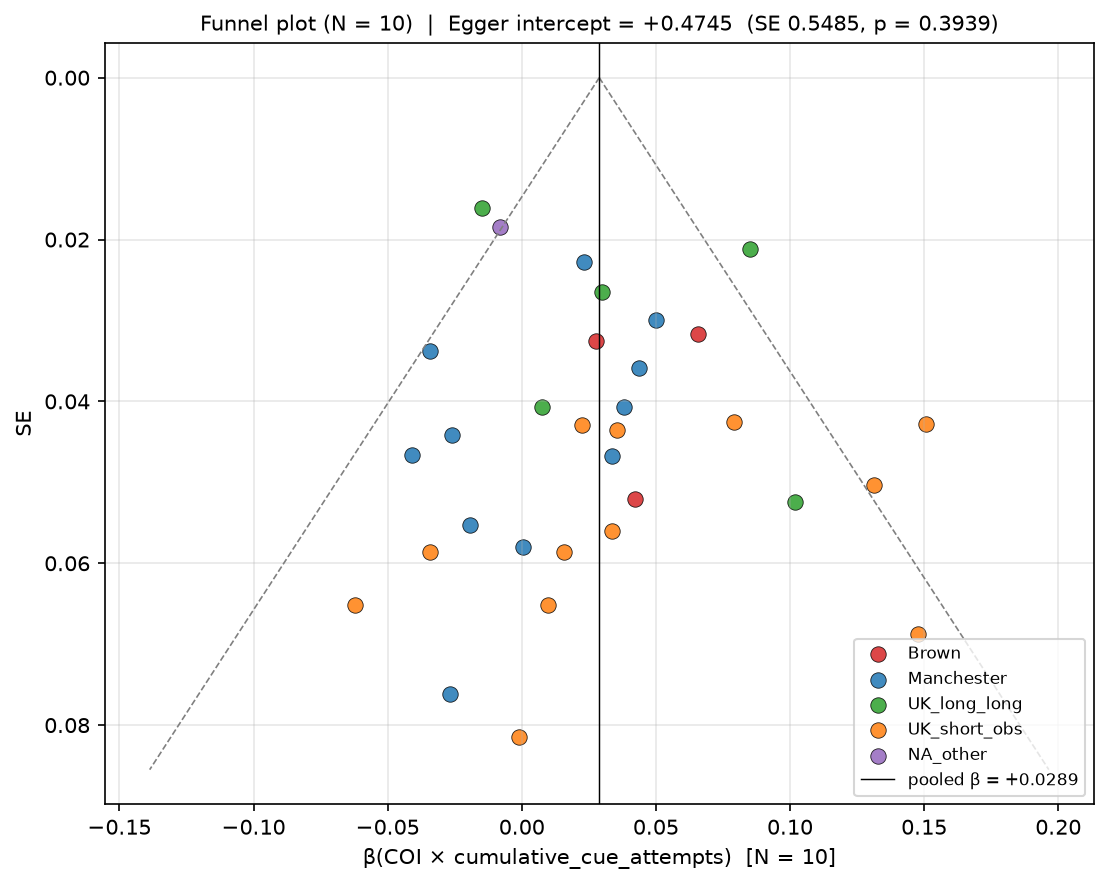
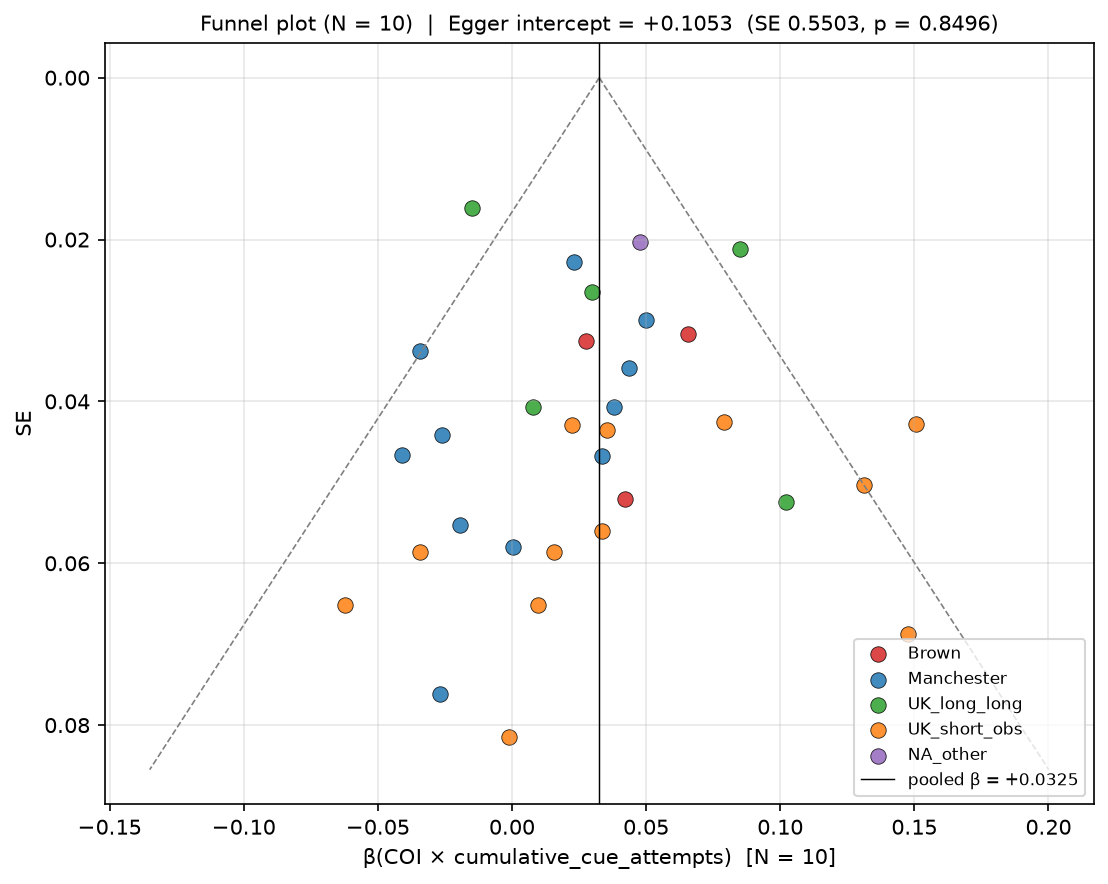
Paper 2: SPEC #21 — fix 17l April N=10 stale value bug
17l_paper_figures.py previously loaded April's per-child β from
output/v17j/na_pool_per_child_betas_loose.csv, which stored only the
N=5 fit (β = -0.0083, p = 0.65). When 17l built the N=10 forest panel
and N=10 drop-Manchester meta, it reused April's N=5 β instead of
refitting at the actual outcome window. This pulled the N=10 pooled
β downward and disagreed with 17m / 17n / 19 (the three independent
scripts that recompute April at each window).

Patch: port `refit_april_at_window()` from 17m_window_range_sensitivity.py
into 17l as `_refit_april_at_window()` and call it from
`load_per_child_table(window)`. April now contributes:
  N=5  β = -0.0083  SE = 0.0184  p = 0.6520   (unchanged)
  N=10 β = +0.0477  SE = 0.0203  p = 0.0187   (corrected)

Effect on the 32-child pooled meta (output/v17l/drop_manchester_meta.json):
              before              after                 source-of-truth
  N=10 FULL   +0.0289 / I² 39.7%  +0.0325 / I² 36.1%    17m +0.0325
  N=10 DROP   +0.0399 / I² 52.6%  +0.0446 / I² 46.6%    17m +0.0446
  N=10 Egger  FULL +0.475 p=0.394  FULL +0.105 p=0.850   17m +0.105
  N=10 Egger  DROP +1.022 p=0.149  DROP +0.609 p=0.380   17m +0.609

The corrected N=10 values match 17m / 17n / 19 exactly. All p < 0.001
and all Egger p > 0.10 (no publication bias); the conclusions are
unchanged but the SI numbers and the Figure 1 N=10 diamond are now
authoritative.

N=5 was unaffected (17l already loaded April N=5 correctly):
[…]

diff --git a/17l_paper_figures.py b/17l_paper_figures.py
@@ -143,6 +143,135 @@ def _norm_subcorpus(s: str) -> str:
     return s
 
 
+# ─────────────────────────────────────────────────────────────────────────────
+# April (NA single child) per-window refit (ported from 17m so 17l no longer
+# imports a stale N=5-only β for the N=10 panel)
+# ─────────────────────────────────────────────────────────────────────────────
+
+import bisect as _bisect_april
+
+
+def _z_local(s: pd.Series) -> pd.Series:
+    s = pd.to_numeric(s, errors="coerce")
+    sd = s.std()
+    if sd is None or pd.isna(sd) or sd == 0:
+        return s - s.mean()
+    return (s - s.mean()) / sd
+
+
+def _build_child_utt_index(tagged_csv: Path) -> Dict[str, Tuple[np.ndarray, List[set]]]:
+    cols = ["file", "speaker_role", "utterance_index", "cue_subtype", "is_cue_token"]
+    df = pd.read_csv(tagged_csv, usecols=cols, low_memory=False, dtype={"file": str})
+    df = df[df["speaker_role"] == "child"].copy()
+    cue_rows = df[df["is_cue_token"].astype(str) == "True"][
+        ["file", "utterance_index", "cue_subtype"]
+    ].copy()
+    cue_rows["cue_subtype"] = cue_rows["cue_subtype"].fillna("").astype(str).str.strip()
+    cue_rows = cue_rows[cue_rows["cue_subtype"] != ""]
+    cues_per_utt: Dict[Tuple[str, int], set] = {}
+    for f, idx, cue in cue_rows.itertuples(index=False, name=None):
+        cues_per_utt.setdefault((f, int(idx)), set()).add(cue)
+    utts = df[["file", "utterance_index"]].drop_duplicates().copy()
+    utts["utterance_index"] = utts["utterance_index"].astype(int)
+    file_index: Dict[str, Tuple[np.ndarray, List[set]]] = {}
+    for f, g in utts.groupby("file"):
+        idxs = np.sort(g["utterance_index"].values.astype(int))
+        cue_sets = [cues_per_utt.get((f, int(i)), set()) for i in idxs]
+        file_index[str(f)] = (idxs, cue_sets)
+    return file_index
+
+
+def _add_prior_local_freq(reuse_df: pd.DataFrame,
+                            file_index: Dict[str, Tuple[np.ndarray, List[set]]],
+                            prior_window: int = 20) -> pd.DataFrame:
+    n = len(reuse_df)
+    prior = np.zeros(n, dtype=np.int32)
+    files = reuse_df["file"].astype(str).values
+    utt_idxs = reuse_df["child_utt_idx"].astype(int).values
+    cues = reuse_df["cue_subtype"].astype(str).values
+    for i in range(n):
+        entry = file_index.get(files[i])
+        if entry is None:
+            continue
+        idxs, cue_sets = entry
+        pos = _bisect_april.bisect_left(idxs, utt_idxs[i])
+        start = max(0, pos - prior_window)
+        window_slice = cue_sets[start:pos]
+        c = cues[i]
+        prior[i] = sum(1 for s in window_slice if c in s)
+    out = reuse_df.copy()
+    out["prior_local_freq"] = prior
+    return out
+
+
+def _refit_april_at_window(window: int) -> Optional[pd.DataFrame]:
+    """
+    Per-child OLS refit for April at outcome window N. Mirrors the routine
+    used in 17m_window_range_sensitivity.refit_april_at_window so that 17l
+    no longer carries a stale N=5-only β into the N=10 panel of Figure 1.
+    """
+    reuse_csv = Path("./output/v16/English-NA-Pool_episodes_with_reuse.csv")
+    tagged_csv = Path("./output/English-NA-Pool_tokens_tagged.csv")
+    joined_csv = Path("./output/v11/English-NA-Pool_r_plus_joined.csv")
+    json_cache = Path("./output/json_cache/English-NA-Pool")
+    if not all(p.exists() for p in [reuse_csv, tagged_csv, joined_csv, json_cache]):
+        return None
+    outcome_col = f"next_{window}_reuse"
+    reuse = pd.read_csv(reuse_csv, low_memory=False, dtype={"file": str})
+    if outcome_col not in reuse.columns:
+        return None
+    reuse = reuse[reuse["r_plus_label"] != "no_contingent_response"].copy()
+    file_to_child: Dict[str, str] = {}
+    for child_dir in json_cache.iterdir():
+        if child_dir.is_dir():
+            for jf in child_dir.rglob("*.json"):
+                file_to_child[jf.stem] = child_dir.name
+    reuse["child"] = reuse["file"].astype(str).map(file_to_child)
+    reuse = reuse.dropna(subset=["child"]).copy()
+    reuse = reuse[reuse["child"] == "April"].copy()
+    if len(reuse) < 100:
+        return None
+    fi = _build_child_utt_index(tagged_csv)
+    reuse = _add_prior_local_freq(reuse, fi, prior_window=20)
+    joined = pd.read_csv(joined_csv)
+    if "log_caregiver_count" in joined.columns:
+        joined = joined.rename(columns={"log_caregiver_count": "log_cue_freq"})
+    elif "logFreq" in joined.columns:
+        joined = joined.rename(columns={"logFreq": "log_cue_freq"})
+    df = reuse.merge(joined[["cue_subtype", "COI", "log_cue_freq"]],
+                       on="cue_subtype", how="inner")
+    df = df.dropna(subset=[outcome_col, "COI", "log_cue_freq", "child_age_months"]).copy()
+    df = df.sort_values(["child", "cue_subtype", "child_age_months", "file", "child_utt_idx"]).reset_index(drop=True)
+    df["cumulative_cue_attempts"] = df.groupby(["child", "cue_subtype"]).cumcount()
+    df_post = df[df["child_age_months"] >= 24].copy()
+    if len(df_post) < 100:
+        return None
+    df_post["COI_z_local"]     = _z_local(df_post["COI"])
+    df_post["cum_z_local"]     = _z_local(df_post["cumulative_cue_attempts"])
+    df_post["prior_z_local"]   = _z_local(df_post["prior_local_freq"])
+    df_post["logfreq_z_local"] = _z_local(df_post["log_cue_freq"])
+    df_post["COI_x_cum_local"] = df_post["COI_z_local"] * df_post["cum_z_local"]
+    preds = ["COI_z_local", "cum_z_local", "COI_x_cum_local",
+             "prior_z_local", "logfreq_z_local"]
+    X = sm.add_constant(df_post[preds].astype(float), has_constant="add")
+    y = df_post[outcome_col].astype(float)
+    try:
+        fit = sm.OLS(y, X).fit(
+            cov_type="cluster",
+            cov_kwds={"groups": df_post["cue_subtype"].astype(str).values},
+        )
+    except Exception:
+        return None
+    return pd.DataFrame([{
+        "child":              "April",
+        "n_episodes":         int(len(df_post)),
+        "obs_window_months":  float(df_post["child_age_months"].max() - df_post["child_age_months"].min()),
+        "beta_COI_x_cum":     float(fit.params["COI_x_cum_local"]),
+        "se_COI_x_cum":       float(fit.bse["COI_x_cum_local"]),
+        "p_COI_x_cum":        float(fit.pvalues["COI_x_cum_local"]),
+    }])
+
+
 def load_per_child_table(window: int) -> pd.DataFrame:
     """Build the merged per-child table for a given outcome window N."""
     uk_path = Path(f"./output/v17h{'_N10' if window == 10 else ''}/"
@@ -154,14 +283,15 @@ def load_per_child_table(window: int) -> pd.DataFrame:
     uk = uk[~uk["subcorpus"].astype(str).str.contains("also in UK pool", na=False)].copy()
     uk["subcorpus_norm"] = uk["subcorpus"].apply(_norm_subcorpus)
 
-    # Add April (only N=5 is computed; reuse same β for N=10 if missing)
-    april_path = Path("./output/v17j/na_pool_per_child_betas_loose.csv")
-    if april_path.exists():
-        april = pd.read_csv(april_path)
+    # Add April — REFIT at the actual outcome window (was previously
+    # loaded statically from v17j/na_pool_per_child_betas_loose.csv which
+    # only stored N=5, causing N=10 to reuse the N=5 β=-0.0083). The
+    # window-aware refit recovers April's true N=10 β=+0.0477 (p=0.019).
+    april = _refit_april_at_window(window)
+    if april is not None and not april.empty:
         april["subcorpus_norm"] = "NA_other"
         april["subcorpus"] = "NA_other_longitudinal (April)"
         april["corpus_label"] = "NA-Pool-April"
-        april = april.rename(columns={"obs_window": "obs_window_months"})
         keep = ["child", "n_episodes", "obs_window_months",
                 "beta_COI_x_cum", "se_COI_x_cum", "p_COI_x_cum",
                 "subcorpus_norm", "subcorpus", "corpus_label"]

diff --git a/output/v17l/SUMMARY.md b/output/v17l/SUMMARY.md
@@ -7,8 +7,8 @@
 |---|---|---|---|---|---|---|---|---|---|
 | N=5 | FULL | 32 | +0.0241 | 0.0079 | 0.0022 | 0.0011 | 63.4% | +0.4129 | 0.5866 |
 | N=5 | DROP-MANC | 21 | +0.0363 | 0.0105 | 0.0006 | 0.0014 | 70.2% | +0.8925 | 0.3534 |
-| N=10 | FULL | 32 | +0.0289 | 0.0089 | 0.0011 | 0.0009 | 39.7% | +0.4745 | 0.3939 |
-| N=10 | DROP-MANC | 21 | +0.0399 | 0.0123 | 0.0012 | 0.0014 | 52.6% | +1.0220 | 0.1494 |
+| N=10 | FULL | 32 | +0.0325 | 0.0087 | 0.0002 | 0.0007 | 36.1% | +0.1053 | 0.8496 |
+| N=10 | DROP-MANC | 21 | +0.0446 | 0.0116 | 0.0001 | 0.0011 | 46.6% | +0.6091 | 0.3803 |
 
 ## Theakston radar — raw axis values (post min-max normalised in figure)
 